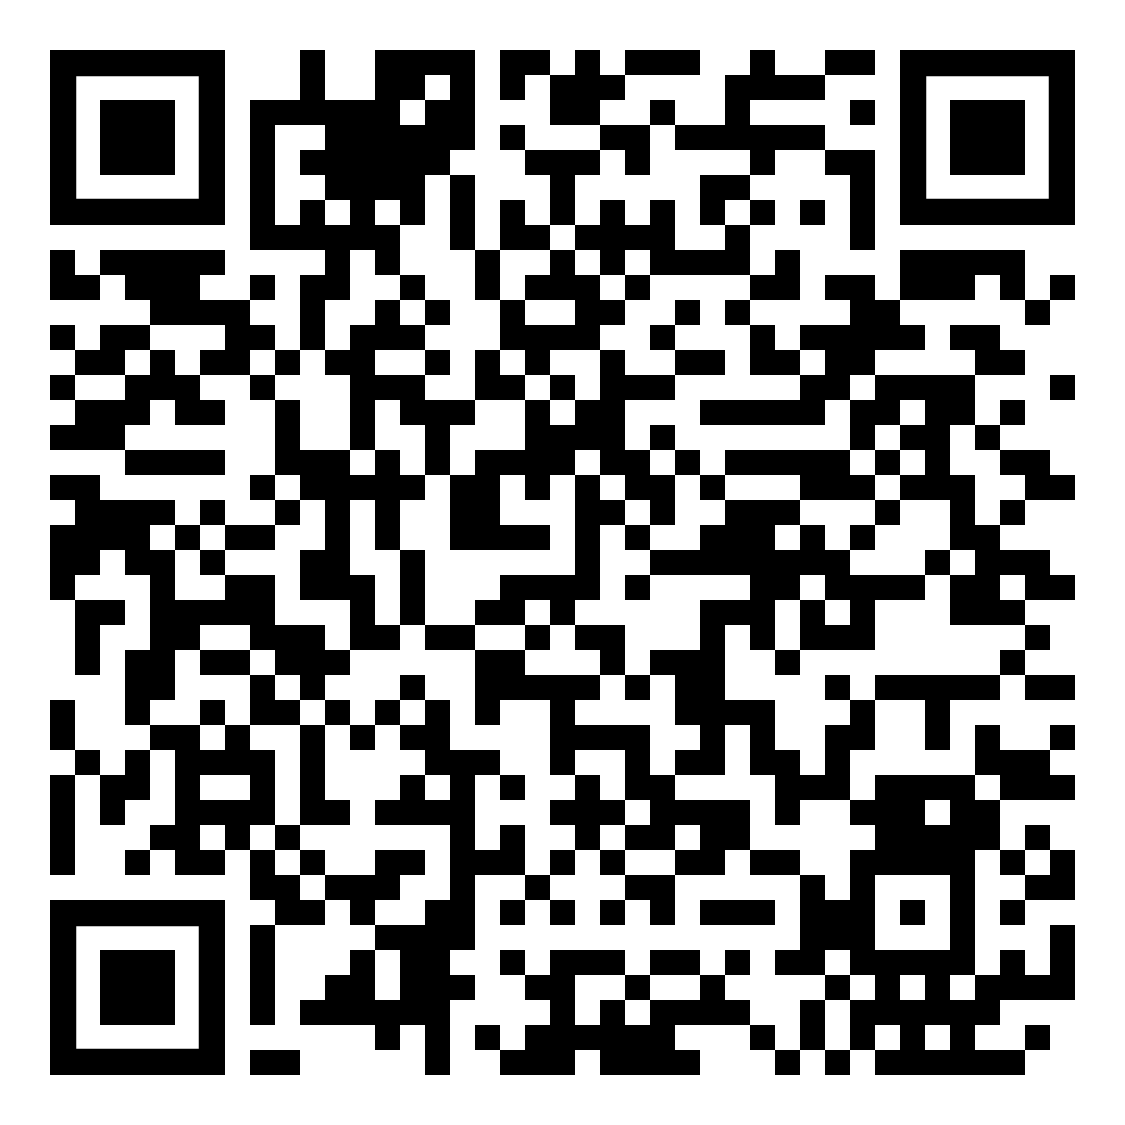
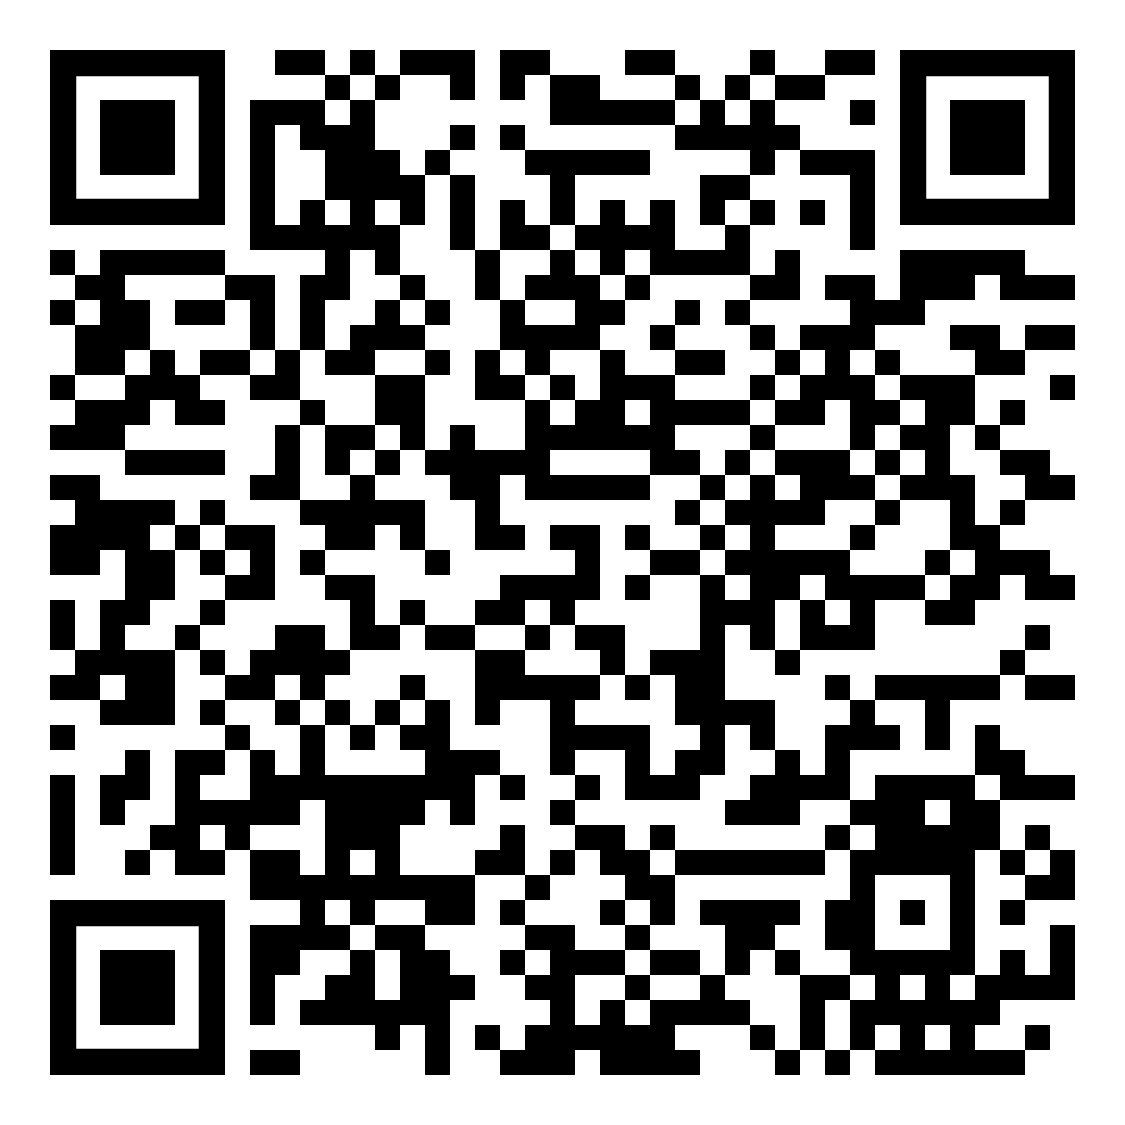
wala

diff --git a/resources/views/welcome.blade.php b/resources/views/welcome.blade.php
@@ -113,7 +113,7 @@
 
     // Mobile app installer (Expo / EAS internal distribution)
     $appQr   = 'images/app-qr.png';        // QR image: public/images/app-qr.png
-    $appUrl  = 'https://expo.dev/accounts/abidmangelen/projects/scholarr/builds/c51d7d69-da25-43e7-82ea-360838ad294d';  // Expo install page (same link as the QR)
+    $appUrl  = 'https://expo.dev/accounts/abidmangelen/projects/scholarr/builds/57ff8f7c-3f4e-45fd-994c-cc7cfcc49292';  // Expo install page (same link as the QR)
     $apkPath = 'downloads/gvcfi-app.apk';  // fallback: upload your APK to public/downloads/gvcfi-app.apk and leave $appUrl empty
 
     $downloadUrl = $appUrl ?: (file_exists(public_path($apkPath)) ? asset($apkPath) : null);
